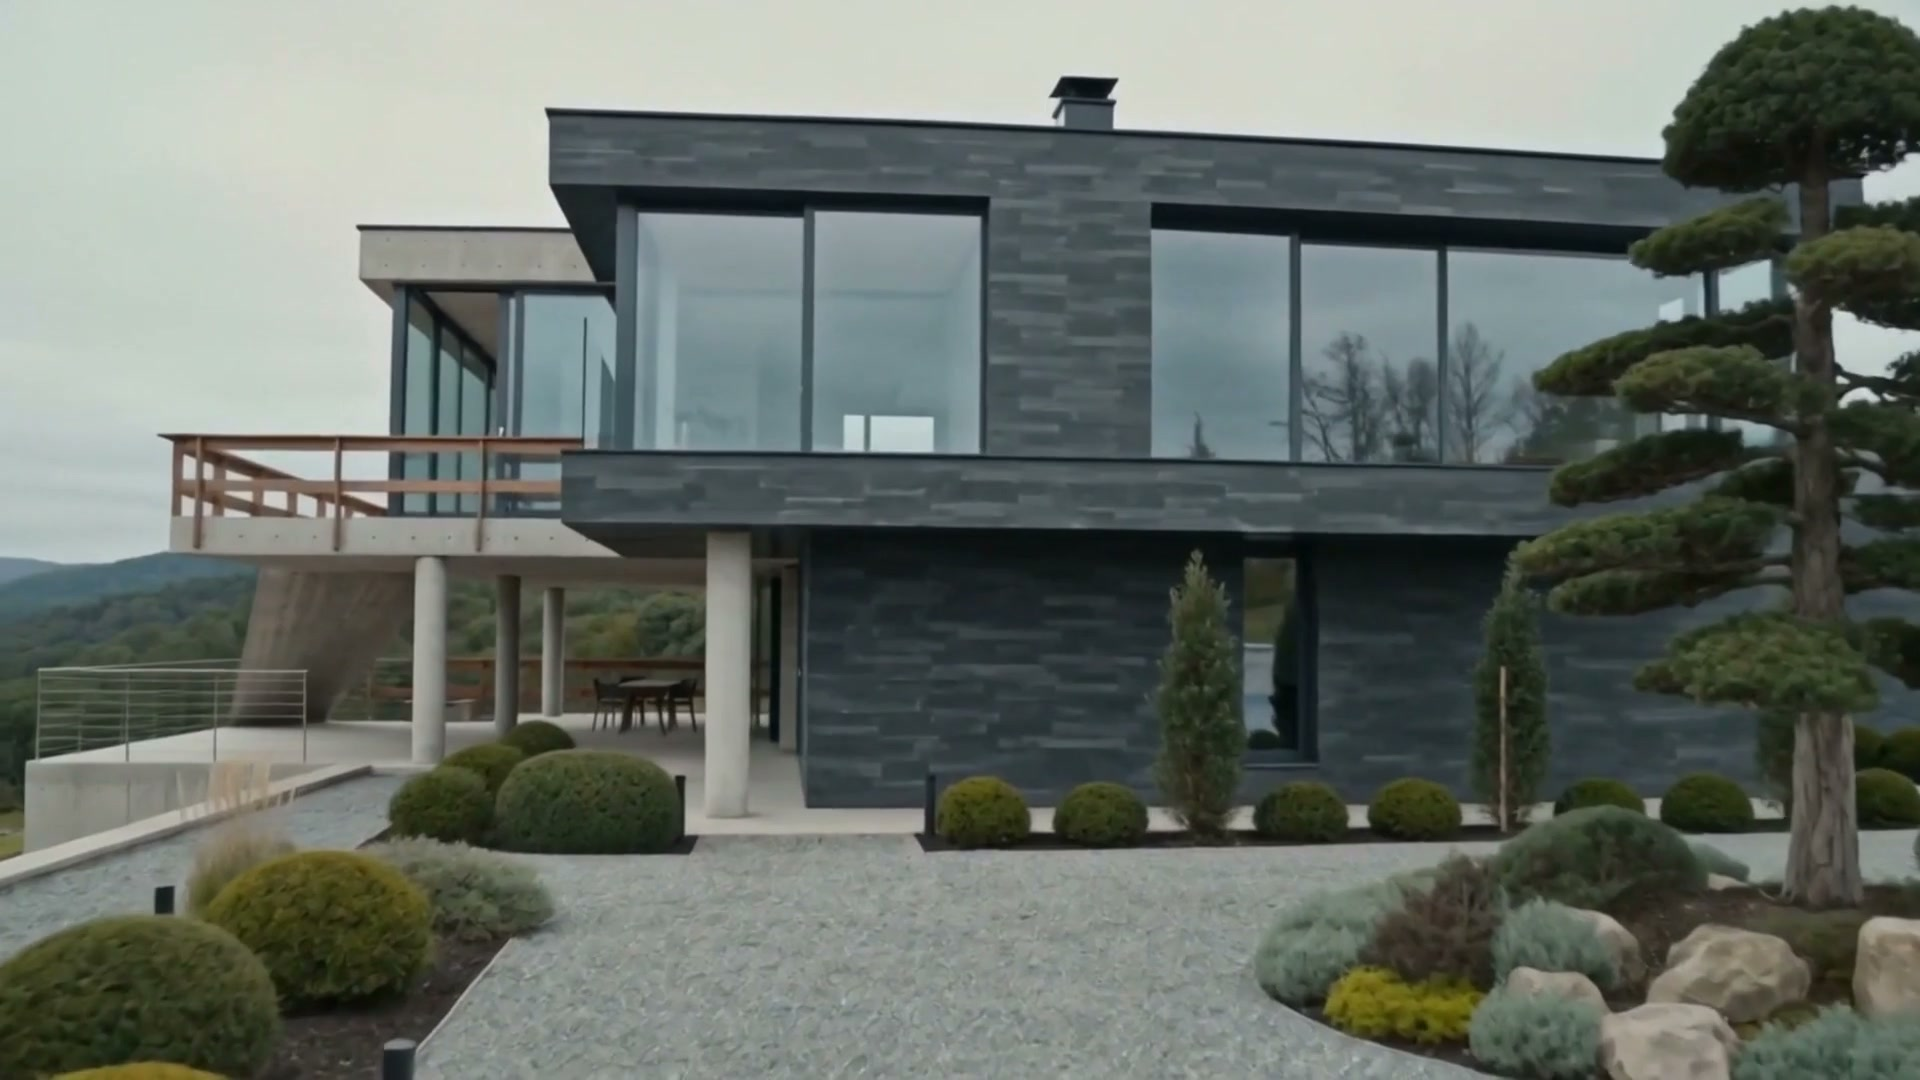
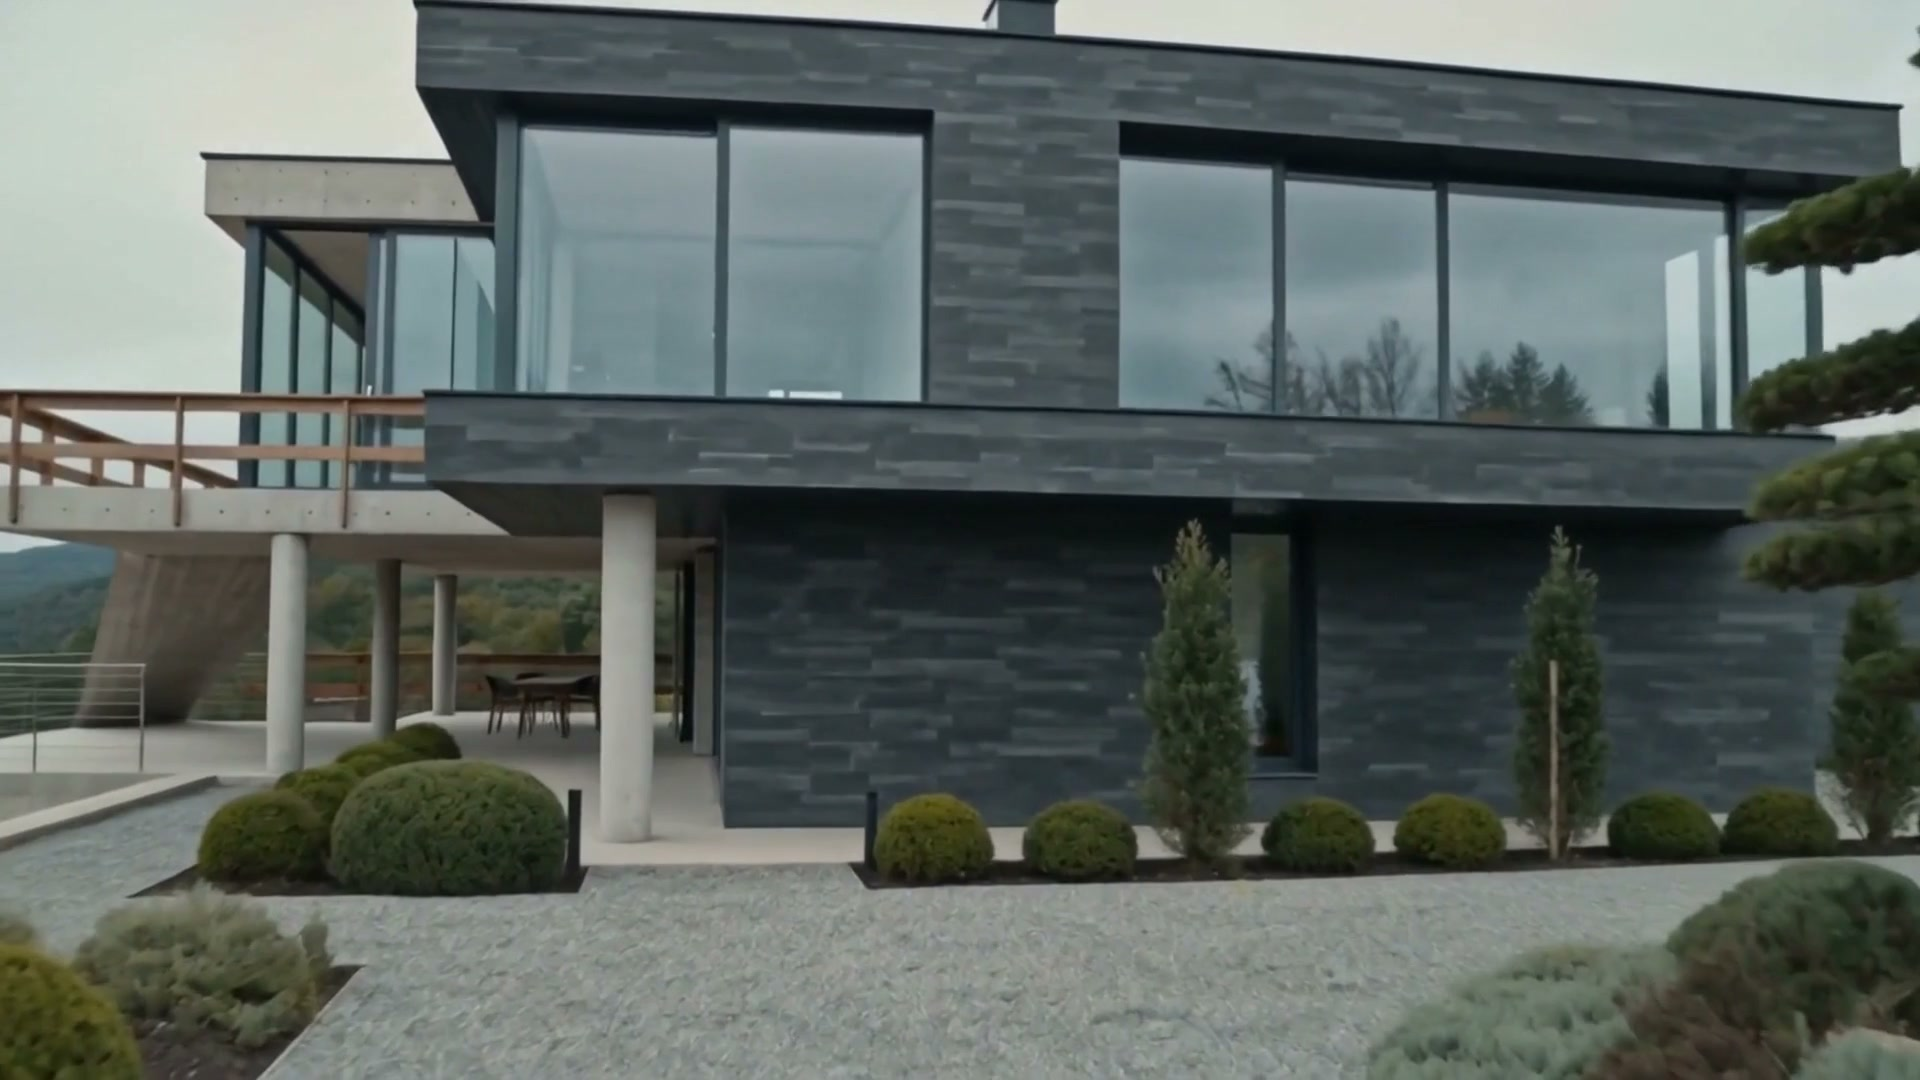
Deploy smoother scroll handoffs and regenerated room-06 approach clip.

diff --git a/src/components/ScrollTour.tsx b/src/components/ScrollTour.tsx
@@ -230,7 +230,7 @@ export function ScrollTour() {
       if (!video || !Number.isFinite(video.duration)) continue;
 
       const opacity = roomVisualOpacity(p, i);
-      const pair = handoffPairForRoom(i);
+      const pair = activeHandoffAt(p, i, DISSOLVE_HANDOFFS, ROOM_COUNT);
       const isHandoffClip = pair !== null;
       if (!handoff && opacity < 0.02) continue;
       if (handoff && !isHandoffClip && opacity < 0.02) continue;
@@ -243,7 +243,7 @@ export function ScrollTour() {
         pair !== null && isInHandoffBlend(p, pair.from, ROOM_COUNT);
 
       if (pair && i === pair.from) {
-        if (inBlend || local > 0.92) local = 1;
+        if (inBlend || local > 0.88) local = 1;
         time = scrubTimeFromLocal(local, video.duration, room?.clipScrub);
         if (i === STRUCTURE_ROOM_INDEX && (inBlend || local >= 0.98)) {
           time = Math.min(
@@ -255,18 +255,13 @@ export function ScrollTour() {
         }
       } else if (pair && i === pair.to) {
         if (inBlend) {
-          const introMax =
-            i === ENVELOPE_ROOM_INDEX
-              ? 0.42
-              : i === APPROACH_ROOM_INDEX
-                ? 0.38
-                : 0.4;
+          const introMax = i === ENVELOPE_ROOM_INDEX ? 0.42 : 0.35;
           local = handoffDissolveLocal(p, pair.from, ROOM_COUNT, introMax);
-        } else if (local < 0.06) {
+        } else if (local < 0.08) {
           local = 0;
         }
         time = scrubTimeFromLocal(local, video.duration, room?.clipScrub);
-        if (!inBlend && local <= 0.02) {
+        if (!inBlend && local <= 0.03) {
           time = 0;
         }
       } else {
@@ -338,7 +333,17 @@ export function ScrollTour() {
     >
       <div className="sticky top-0 h-[100svh] min-h-[560px] w-full overflow-hidden">
         <div className="absolute inset-0 z-0 isolate">
-          <div className="hero-fallback absolute inset-0" aria-hidden />
+          <div
+            className="hero-fallback absolute inset-0 pointer-events-none transition-opacity duration-300"
+            style={{
+              opacity:
+                showBuildLayers ||
+                !(videoMode === "rooms" && clipAvailable.some(Boolean))
+                  ? 1
+                  : 0,
+            }}
+            aria-hidden
+          />
           {showBuildLayers ? (
             <ArchitectureBuildLayers ref={buildLayersRef} />
           ) : null}
@@ -368,14 +373,7 @@ export function ScrollTour() {
                   className="scroll-tour-video absolute inset-0 h-full w-full object-cover"
                   style={{
                     opacity: 0,
-                    zIndex:
-                      i === APPROACH_ROOM_INDEX
-                        ? 5
-                        : i === ENVELOPE_ROOM_INDEX || i === COMPLETE_ROOM_INDEX
-                          ? 4
-                          : i === STRUCTURE_ROOM_INDEX
-                            ? 3
-                            : i,
+                    zIndex: 10 + i,
                   }}
                   src={room.clip}
                   muted